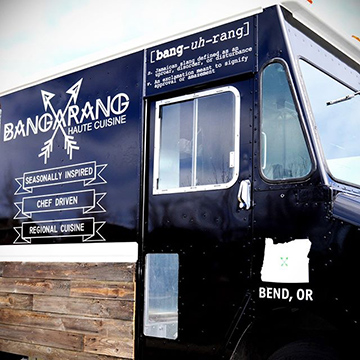
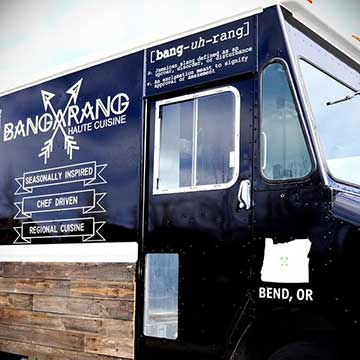
Optimized showcase images

diff --git a/app/uploaders/image_uploader.rb b/app/uploaders/image_uploader.rb
@@ -46,7 +46,7 @@ class ImageUploader < CarrierWave::Uploader::Base
   end
 
   version :biography_image do
-    process :resize_to_fit => [400, 400]
+    process :resize_to_fill => [200, 200]
     version :biography_thumb
   end
 
